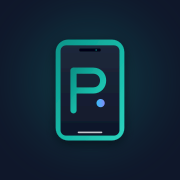
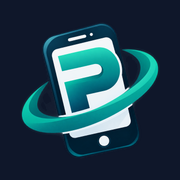
ok

Changed region(s): [[0.1111, 0.1111, 0.8889, 0.8889], [0.7222, 0.75, 0.7778, 0.8056]]

diff --git a/scripts/apply-custom-logo.js b/scripts/apply-custom-logo.js
@@ -1,0 +1,160 @@
+const fs = require('fs');
+const path = require('path');
+const sharp = require('sharp');
+const { pool } = require('../server/config/database');
+const SettingsModel = require('../server/models/settingsModel');
+
+const SRC_IMAGE = path.resolve('C:/Users/Basharat/.gemini/antigravity-ide/brain/95045f4a-6538-4fd1-86b9-9b48f214752f/.user_uploaded/media_1791062492154.png');
+const PUBLIC_DIR = path.resolve(__dirname, '../public');
+const UPLOADS_PWA_DIR = path.join(PUBLIC_DIR, 'uploads/pwa');
+
+async function main() {
+  console.log('1. Reading source image:', SRC_IMAGE);
+  if (!fs.existsSync(SRC_IMAGE)) {
+    throw new Error('Source image not found at ' + SRC_IMAGE);
+  }
+
+  if (!fs.existsSync(UPLOADS_PWA_DIR)) {
+    fs.mkdirSync(UPLOADS_PWA_DIR, { recursive: true });
+  }
+
+  // Load raw RGBA pixels
+  const { data, info } = await sharp(SRC_IMAGE).raw().toBuffer({ resolveWithObject: true });
+
+  // 1. Clean background: eliminate faint alpha noise (< 10)
+  for (let i = 0; i < data.length; i += 4) {
+    if (data[i + 3] < 10) {
+      data[i] = 0;
+      data[i + 1] = 0;
+      data[i + 2] = 0;
+      data[i + 3] = 0;
+    }
+  }
+
+  // 2. Find tight bounding box of the artwork
+  let minX = info.width, maxX = 0, minY = info.height, maxY = 0;
+  for (let y = 0; y < info.height; y++) {
+    for (let x = 0; x < info.width; x++) {
+      const a = data[(y * info.width + x) * 4 + 3];
+      if (a >= 12) {
+        if (x < minX) minX = x;
+        if (x > maxX) maxX = x;
+        if (y < minY) minY = y;
+        if (y > maxY) maxY = y;
+      }
+    }
+  }
+
+  const cropW = maxX - minX + 1;
+  const cropH = maxY - minY + 1;
+  console.log(`Tight logo bounds: [${minX}, ${minY}] to [${maxX}, ${maxY}] -> ${cropW} x ${cropH}`);
+
+  // Extract clean tightly cropped logo
+  const tightLogoBuffer = await sharp(data, {
+    raw: { width: info.width, height: info.height, channels: 4 }
+  })
+  .extract({ left: minX, top: minY, width: cropW, height: cropH })
+  .png({ compressionLevel: 9 })
+  .toBuffer();
+
+  /**
+   * Helper to place cropped logo into a centered canvas of size (canvasW x canvasH)
+   * with transparent or colored background, scaled by scaleRatio.
+   */
+  async function createCenteredIcon(targetSize, scaleRatio = 0.88, bg = { r: 0, g: 0, b: 0, alpha: 0 }) {
+    const maxInnerSize = Math.round(targetSize * scaleRatio);
+    // Resize logo to fit inside maxInnerSize while maintaining aspect ratio
+    const resizedLogo = await sharp(tightLogoBuffer)
+      .resize(maxInnerSize, maxInnerSize, { fit: 'inside' })
+      .toBuffer({ resolveWithObject: true });
+
+    const left = Math.round((targetSize - resizedLogo.info.width) / 2);
+    const top = Math.round((targetSize - resizedLogo.info.height) / 2);
+
+    return sharp({
+      create: {
+        width: targetSize,
+        height: targetSize,
+        channels: 4,
+        background: bg
+      }
+    })
+    .composite([{ input: resizedLogo.data, left, top }])
+    .png({ compressionLevel: 9 });
+  }
+
+  console.log('2. Generating master high-res transparent icon (1024x1024)...');
+  const master1024 = await createCenteredIcon(1024, 0.88);
+  const master1024Path = path.join(UPLOADS_PWA_DIR, 'pwa-custom-icon.png');
+  await master1024.toFile(master1024Path);
+  console.log('   Saved:', master1024Path);
+
+  console.log('3. Generating standard transparent PWA icons...');
+  // 512x512 Transparent
+  const icon512 = await createCenteredIcon(512, 0.88);
+  await icon512.toFile(path.join(PUBLIC_DIR, 'icon-512x512.png'));
+  await icon512.toFile(path.join(PUBLIC_DIR, 'favicon-512x512.png'));
+  await icon512.toFile(path.join(UPLOADS_PWA_DIR, 'icon-512x512.png'));
+
+  // 192x192 Transparent
+  const icon192 = await createCenteredIcon(192, 0.88);
+  await icon192.toFile(path.join(PUBLIC_DIR, 'icon-192x192.png'));
+  await icon192.toFile(path.join(PUBLIC_DIR, 'favicon-192x192.png'));
+
+  // 32x32 Favicon Transparent
+  const icon32 = await createCenteredIcon(32, 0.94);
+  await icon32.toFile(path.join(PUBLIC_DIR, 'favicon-32x32.png'));
+  await icon32.toFile(path.join(PUBLIC_DIR, 'favicon.ico'));
+
+  console.log('4. Generating maskable icons with safe-zone padding and theme background...');
+  // Maskable 512x512: Theme background #0f172a, logo scaled to 74% inside 80% safe zone circle
+  const maskable512 = await createCenteredIcon(512, 0.74, { r: 15, g: 23, b: 42, alpha: 1 });
+  await maskable512.toFile(path.join(PUBLIC_DIR, 'icon-maskable-512x512.png'));
+
+  // Maskable 192x192:
+  const maskable192 = await createCenteredIcon(192, 0.74, { r: 15, g: 23, b: 42, alpha: 1 });
+  await maskable192.toFile(path.join(PUBLIC_DIR, 'icon-maskable-192x192.png'));
+
+  // Apple Touch Icon 180x180:
+  const appleTouch = await createCenteredIcon(180, 0.78, { r: 15, g: 23, b: 42, alpha: 1 });
+  await appleTouch.toFile(path.join(PUBLIC_DIR, 'apple-touch-icon.png'));
+
+  console.log('5. Updating site_settings in database...');
+  await SettingsModel.ensureTable();
+  await SettingsModel.updateSettings({
+    pwa_custom_icon: '/uploads/pwa/pwa-custom-icon.png',
+    site_logo: '/uploads/pwa/pwa-custom-icon.png',
+    site_favicon: '/favicon-512x512.png'
+  });
+
+  console.log('6. Updating manifest.json and manifest.webmanifest...');
+  const manifestPath = path.join(PUBLIC_DIR, 'manifest.json');
+  const webmanifestPath = path.join(PUBLIC_DIR, 'manifest.webmanifest');
+
+  let manifest = {};
+  if (fs.existsSync(manifestPath)) {
+    try { manifest = JSON.parse(fs.readFileSync(manifestPath, 'utf8')); } catch (_) {}
+  }
+
+  manifest.icons = [
+    { src: '/icon-192x192.png', sizes: '192x192', type: 'image/png', purpose: 'any' },
+    { src: '/icon-512x512.png', sizes: '512x512', type: 'image/png', purpose: 'any' },
+    { src: '/icon-maskable-192x192.png', sizes: '192x192', type: 'image/png', purpose: 'maskable' },
+    { src: '/icon-maskable-512x512.png', sizes: '512x512', type: 'image/png', purpose: 'maskable' },
+    { src: '/apple-touch-icon.png', sizes: '180x180', type: 'image/png' },
+    { src: '/favicon-192x192.png', sizes: '192x192', type: 'image/png' },
+    { src: '/favicon-512x512.png', sizes: '512x512', type: 'image/png' }
+  ];
+
+  const jsonStr = JSON.stringify(manifest, null, 2);
+  fs.writeFileSync(manifestPath, jsonStr, 'utf8');
+  fs.writeFileSync(webmanifestPath, jsonStr, 'utf8');
+
+  console.log('\n🎉 SUCCESS: Transparent background applied, icon fitted perfectly, and all PWA icons generated!');
+  process.exit(0);
+}
+
+main().catch(err => {
+  console.error('Error generating icons:', err);
+  process.exit(1);
+});

diff --git a/scripts/package-deploy.js b/scripts/package-deploy.js
@@ -28,6 +28,7 @@ const INCLUDE_PATHS = [
   'public/css',
   'public/js',
   'public/images',
+  'public/uploads/pwa',
   'public/manifest.json',
   'public/manifest.webmanifest',
   'public/sw.js',
@@ -50,6 +51,7 @@ const INCLUDE_PATHS = [
   'database/migrate.js',
   'scripts/setup-media.js',
   'scripts/generate-pwa-icons.js',
+  'scripts/apply-custom-logo.js',
   'package.json',
   'package-lock.json',
   '.htaccess',
